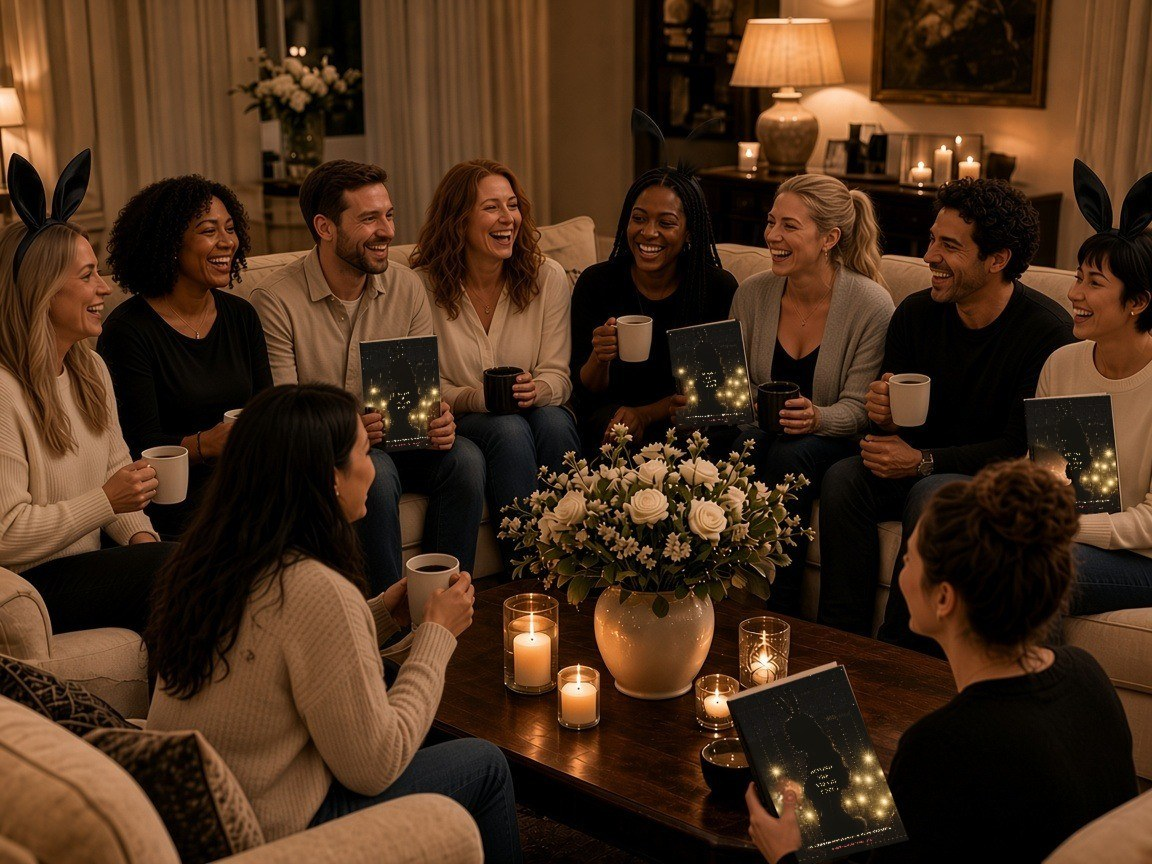
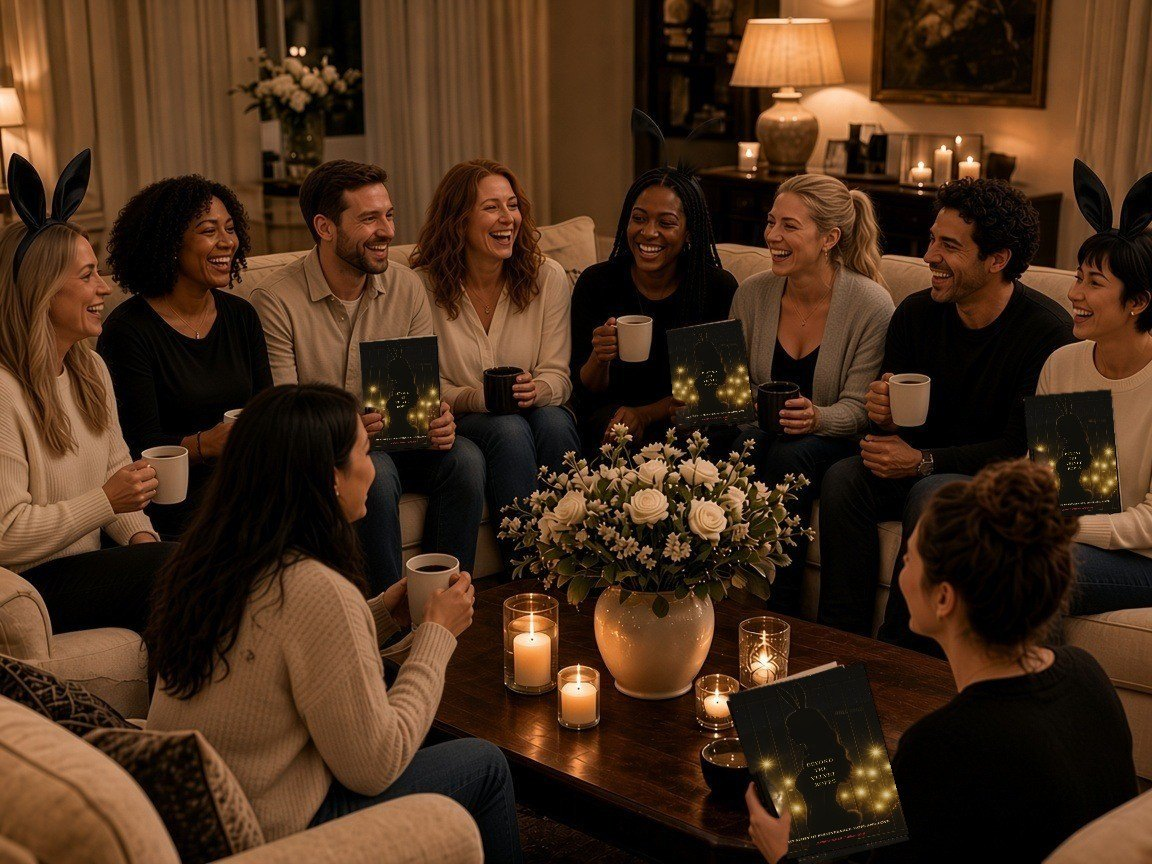
Jen Nov 11: documentary section, bundle, podcast YouTube player, captions, USPS line, CASA heading, Forever Angels, real covers in Velvet Circle photo (preview)

diff --git a/app/book/BookOffers.js b/app/book/BookOffers.js
@@ -90,8 +90,10 @@ export default function BookOffers() {
                 <p className="price-note">{SHOP.bookmarkShipping}</p>
               </div>
               <p className="product-desc">
-                About 6 inches long. I make each one by hand from black velvet with a gold key charm and a durable, flexible wax-style seal that won’t crack. Shipped via USPS.
+                About 6 inches long. I make each one by hand from black velvet with a gold key charm and a durable, flexible wax-style seal that won’t crack.
               </p>
+              {/* Jen, Nov 11: same font and size as the signed copy's line. */}
+              <p className="fulfill fulfill--key">{SHOP.signedBookLeadTime}</p>
               {bookmarkFacts.length > 0 && (
                 <dl className="offer-facts">
                   {bookmarkFacts.map(([label, value]) => (
@@ -172,30 +174,35 @@ export default function BookOffers() {
           <article className="product-card" id="bundle">
             <span id="backstage-bundle" />
             <span id="backstage-box" />
-            <div className="product-media product-media--contain">
+            {/* Jen, Nov 11: a small photo of the signed book and black bunny
+                ears, with her line directly under it. */}
+            <div className="product-media product-media--contain product-media--small">
               <img
-                src="/assets/backstage-bundle.jpg"
-                alt="A gift box with a black ribbon, bunny ears, the book, and the velvet bookmark"
-                width="1268"
-                height="1586"
+                src="/assets/book-bunny-ears-bundle.jpg"
+                alt="The signed book with black velvet bunny ears and the velvet bookmark"
+                width="800"
+                height="1049"
+                loading="lazy"
               />
             </div>
             <div className="product-body">
-              <div className="eyebrow">The Bundle</div>
-              <h3>Signed book, bookmark, and bunny ears</h3>
-              <p className="price">{SHOP.bundlePrice}</p>
-              <p className="product-desc">
-                A signed copy of the book, the Signature Velvet Bookmark, and bunny ears.
-              </p>
+              <p className="product-desc bundle-includes">{SHOP.bundleIncludes}</p>
+              <div className="eyebrow">One-time purchase</div>
+              <h3>{SHOP.bundleName}</h3>
+              <div className="price-block">
+                <p className="price">
+                  {SHOP.bundleTotal} <span className="price-unit">total</span>
+                </p>
+                <p className="price-note">
+                  {SHOP.bundlePrice} bundle + {SHOP.bundleShipping} shipping, US only
+                </p>
+              </div>
+              <p className="fulfill fulfill--key">{SHOP.signedBookLeadTime}</p>
               <div className="product-cta">
-                {SHOP.bundle ? (
-                  <>
-                    <a href={SHOP.bundle} target="_blank" rel="noopener" className="btn btn-primary">
-                      Buy the bundle
-                    </a>
-                    <TrustLine />
-                  </>
-                ) : null}
+                <a href={SHOP.bundle} target="_blank" rel="noopener" className="btn btn-primary">
+                  Buy the bundle
+                </a>
+                <TrustLine />
               </div>
             </div>
           </article>

diff --git a/app/media/page.js b/app/media/page.js
@@ -211,7 +211,9 @@ export default function MediaPage() {
       {/* MEDIA-15: Film and Speaking are siblings of Press, in the outline too. */}
       <section id="film" className="wrap">
         <h2>Film and documentary</h2>
-        <p>{FILM.film}</p>
+        {/* Jen, Nov 11: heading, then the artwork with the disclaimer right
+            under it, and her text beside it (stacked on a phone). */}
+        <h3 className="doc-heading">{FILM.documentaryTitle} | {FILM.documentaryStatus}</h3>
         <div className="doc-feature">
           <figure className="doc-poster">
             <Image
@@ -225,8 +227,7 @@ export default function MediaPage() {
             <figcaption>{FILM.documentaryPoster.note}</figcaption>
           </figure>
           <div className="doc-copy">
-            {/* Jen, Nov 10: her exact heading. The partner links sit below, once each. */}
-            <h3>{FILM.documentaryTitle} | {FILM.documentaryStatus}</h3>
+            <p>{FILM.documentaryText}</p>
           </div>
         </div>
         {/* MEDIA-20: partner links share the page's ghost-button style. */}
@@ -280,7 +281,7 @@ export default function MediaPage() {
           {/* Jen, Nov 9: The Forever Angels is her own nonprofit, kept separate from Childhelp. */}
           <h3>The Forever Angels, my nonprofit</h3>
           <p>
-            I co-founded The Forever Angels with Allison Kiefer. Families in need come first, and we also help veterans, the elderly, and animals. We receive referrals from social workers and case managers, then work with trusted community partners to verify each need and make sure support reaches the people who truly need it.
+            I co-founded The Forever Angels with Allison Kiefer. Families in need come first. We also help veterans, older adults, people in hospice care, and animals. We receive referrals from social workers and case managers, then work with trusted community partners to verify each need and make sure support reaches the people who truly need it.
           </p>
           <p className="media-actions">
             <a

diff --git a/lib/press.js b/lib/press.js
@@ -7,18 +7,19 @@
 // "acquired", "optioned", or "coming to theaters". Keep this wording.
 
 export const FILM = {
-  // Jen, Nov 6: the Austin recognition stays here, never called an award.
-  film:
-    'Beyond the Velvet Ropes is being developed as a feature film with Leone Marucci and Steelyard Pictures.',
-  // Jen, Nov 10 (final): the heading is exactly
-  // "Beyond the Velvet Ropes Documentary | In Production".
+  // Jen, Nov 11: the heading is exactly
+  // "Beyond the Velvet Ropes Documentary | In development", and her text sits
+  // next to the artwork. The old separate feature-film line was removed so
+  // the film news is said once (Adam, Nov 11).
   documentaryTitle: 'Beyond the Velvet Ropes Documentary',
-  documentaryStatus: 'In Production',
+  documentaryStatus: 'In development',
+  documentaryText:
+    'I’m working with Mark Andrew Hamer of Crash Cat Media Group on the documentary about my life. My book is also being developed into a feature film with Leone Marucci of Steelyard Pictures.',
   documentaryPoster: {
-    // Jen's Nov 10 file, full size (1536x864).
+    // Jen's Nov 11 file ("Photo 10"), full size (1672x941).
     src: '/assets/documentary-concept-art.jpg',
-    width: 1536,
-    height: 864,
+    width: 1672,
+    height: 941,
     alt: 'Concept artwork for Beyond the Velvet Ropes: The Story of Jennifer Walcott Archuleta, with Jen reflected in a car mirror, a childhood photo, and a red carpet toward the Hollywood sign',
     note: 'Promotional concept artwork created to preview the documentary. This is not the official film poster. Final artwork and production details are subject to change.',
   },

diff --git a/app/about/AboutSections.js b/app/about/AboutSections.js
@@ -111,14 +111,14 @@ export function PressSection() {
 export function GivingSection() {
   return (
     <section id="giving" className="wrap">
-      <h2>CASA and Childhelp</h2>
+      <h2>CASA, Childhelp &amp; My Therapy Dog, Turbo.</h2>
       <p>
         I have been a CASA volunteer, and I have volunteered with Childhelp for almost a decade. I have chaired the annual fashion show fundraiser three times, including the 2022 A Day in Wonderland event, which raised nearly $325,000 for Childhelp’s programs.
       </p>
       <p>I also volunteer with Turbo, my TDI therapy dog. Turbo has worked with Ronald McDonald House Charities, VA hospitals, and hospice.</p>
       <h3>The Forever Angels, my nonprofit</h3>
       <p>
-        I co-founded The Forever Angels with Allison Kiefer. Families in need come first, and we also help veterans, the elderly, and animals. We receive referrals from social workers and case managers, then work with trusted community partners to verify each need and make sure support reaches the people who truly need it.
+        I co-founded The Forever Angels with Allison Kiefer. Families in need come first. We also help veterans, older adults, people in hospice care, and animals. We receive referrals from social workers and case managers, then work with trusted community partners to verify each need and make sure support reaches the people who truly need it.
       </p>
       <p className="media-actions">
         <a className="btn btn-ghost" href="https://theforeverangels.com/our-founders/" target="_blank" rel="noopener noreferrer">

diff --git a/app/podcast/page.js b/app/podcast/page.js
@@ -64,6 +64,17 @@ export default async function PodcastPage() {
         />
         <div className="eyebrow">The Podcast</div>
         <h1>{name}</h1>
+        {/* Jen, Nov 11: a large YouTube player right under the title, so people
+            can watch on a phone or computer. Plays the Full Episodes playlist. */}
+        <div className="pod-youtube">
+          <iframe
+            src={PODCAST.youtubeEmbed}
+            title={`${name}, full episodes on YouTube`}
+            allow="accelerometer; autoplay; clipboard-write; encrypted-media; gyroscope; picture-in-picture; web-share"
+            referrerPolicy="strict-origin-when-cross-origin"
+            allowFullScreen
+          />
+        </div>
         <p className="pod-status">Season 1 is complete, {EPISODE_COUNT} episodes. The show is on a break right now. Jen is focusing on her movie and documentary.</p>
         <div className="pod-subscribe">
           <a className="btn btn-primary" href={PODCAST.subscribe.apple} target="_blank" rel="noopener noreferrer">Subscribe on Apple Podcasts</a>

diff --git a/app/components/site-data.js b/app/components/site-data.js
@@ -182,8 +182,16 @@ export const SHOP = {
   // It was pointing at a Kit checkout, which can't collect a shipping address.
   // Paste a one-time $69 Stripe Payment Link here (shipping address ON).
   // Never a Kit checkout URL. Old #backstage-bundle anchors land on this card.
-  bundle: '',
+  // Jen, Nov 11: "Book & Bunny Ears Bundle", one $69 purchase plus $6.99
+  // US shipping (Adam), separate from the monthly Velvet Circle. Stripe
+  // product prod_Vc2rcBQjtSW8LU, link plink_1Uaom1AnUyGSiQJ49J3NYBm5, asks who
+  // to sign the book to.
+  bundle: 'https://buy.stripe.com/28EbJ05QfaT7bvdfAeds40f',
+  bundleName: 'Book & Bunny Ears Bundle',
   bundlePrice: '$69',
+  bundleShipping: '$6.99',
+  bundleTotal: '$75.99',
+  bundleIncludes: 'Includes a signed book, black bunny ears, a velvet bookmark, and one month to ask me up to three questions.',
 
   // Jen's eBay store (jenniferwalcottarchive). One small text link at the
   // bottom of the shop, nothing more (Jen, Nov 10, 2026).

diff --git a/app/about/about.css b/app/about/about.css
@@ -326,3 +326,21 @@
   .twenties-stage { padding: 52px 0 16px; gap: 10px; }
   .twenties-figure img { max-width: 100vw; max-height: calc(100dvh - 116px); border-radius: 0; }
 }
+
+/* Jen, Nov 11: "move the carousel descriptions up so the full caption is easy
+   to see." The stage hugs each photo on every screen (no fixed-height band),
+   so the caption sits right under the photo, and on a phone the photo stops
+   at 70% of the screen so the photo and its whole caption fit together. */
+.gallery-band .gallery-area { height: auto; }
+@media (max-width: 759px) {
+  .gallery-band .gallery-stage { --g-max-h: 70vh; }
+}
+@supports (height: 1svh) {
+  @media (max-width: 759px) {
+    .gallery-band .gallery-stage { --g-max-h: 70svh; }
+  }
+}
+/* Desktop: a little headroom so a tall photo's caption is fully on screen. */
+@media (min-width: 760px) {
+  .gallery-band .gallery-stage { --g-max-h: min(72vh, 820px); }
+}

diff --git a/app/shipping-returns/page.js b/app/shipping-returns/page.js
@@ -52,10 +52,11 @@ export default function ShippingReturnsPage() {
             one-of-a-kind pieces, all other sales are final.
           </p>
 
-          <h2 id="bundle">The Bundle</h2>
+          <h2 id="bundle">{SHOP.bundleName}</h2>
           <p>
-            The Bundle is {SHOP.bundlePrice}. It is a signed copy of the book, the Signature Velvet Bookmark,
-            and bunny ears. Shipped via USPS.
+            The {SHOP.bundleName} is {SHOP.bundlePrice} plus {SHOP.bundleShipping} shipping, US only, one time.
+            It includes a signed book, black bunny ears, a velvet bookmark, and one month to ask Jen up to three
+            questions. It is separate from the monthly Velvet Circle Book Club. Shipped via USPS.
           </p>
 
           <h2 id="velvet-circle">The Velvet Circle Book Club</h2>

diff --git a/app/media/media.css b/app/media/media.css
@@ -376,8 +376,8 @@
   }
 }
 
-/* Jen, Nov 10: the heading ("Beyond the Velvet Ropes Documentary | In
-   Production") sits above the artwork, which uses the full column. */
-.doc-feature { display: flex; flex-direction: column; gap: var(--space-4, 20px); }
-.doc-feature .doc-copy { order: -1; }
-.doc-feature .doc-copy h3 { margin: 0; }
+/* Jen, Nov 11: heading above; the artwork (with the disclaimer directly
+   under it) and her text side by side on wide screens, stacked on phones. */
+.doc-heading { margin: var(--space-5, 32px) 0 0; font-size: var(--text-h3); }
+.doc-feature { margin-top: var(--space-4, 20px); }
+.doc-copy p { margin: 0; font-size: var(--text-body-l, 1.15rem); line-height: 1.6; }

diff --git a/app/podcast/podcast.css b/app/podcast/podcast.css
@@ -221,3 +221,16 @@
   font-variant-numeric: lining-nums tabular-nums;
   color: var(--accent-ink);
 }
+
+/* Jen, Nov 11: large YouTube player under the podcast title. */
+.pod-youtube {
+  position: relative;
+  width: 100%;
+  max-width: 960px;
+  margin: var(--space-4, 20px) auto var(--space-5, 32px);
+  aspect-ratio: 16 / 9;
+  border: 1px solid var(--border-strong);
+  box-shadow: var(--shadow);
+  background: #000;
+}
+.pod-youtube iframe { position: absolute; inset: 0; width: 100%; height: 100%; border: 0; }

diff --git a/app/shop/shop.css b/app/shop/shop.css
@@ -511,3 +511,7 @@
   font-size: var(--text-body-l, 1.15rem); line-height: 1.65; color: var(--text);
 }
 .shop-page .collection-signed-note { font-size: var(--text-body-s, .95rem); }
+
+/* Jen, Nov 11: the bundle uses a small photo, her line right under it. */
+.shop-page .product-media--small img { max-height: 300px; width: auto; margin-inline: auto; }
+.shop-page .bundle-includes { margin: 0 0 8px; font-style: italic; }

diff --git a/app/shop/page.js b/app/shop/page.js
@@ -15,6 +15,7 @@ const JUMP = [
   { href: '#signed-copy', label: 'Signed copy' },
   { href: '#bookmark', label: 'Bookmark' },
   { href: '#velvet-circle', label: 'Book club' },
+  { href: '#bundle', label: 'Bundle' },
   { href: '#apparel', label: 'Apparel' },
   { href: '#bumblebee', label: 'Be the Bumblebee' },
   { href: '#flawed-and-fierce', label: 'Flawed & Fierce' },
